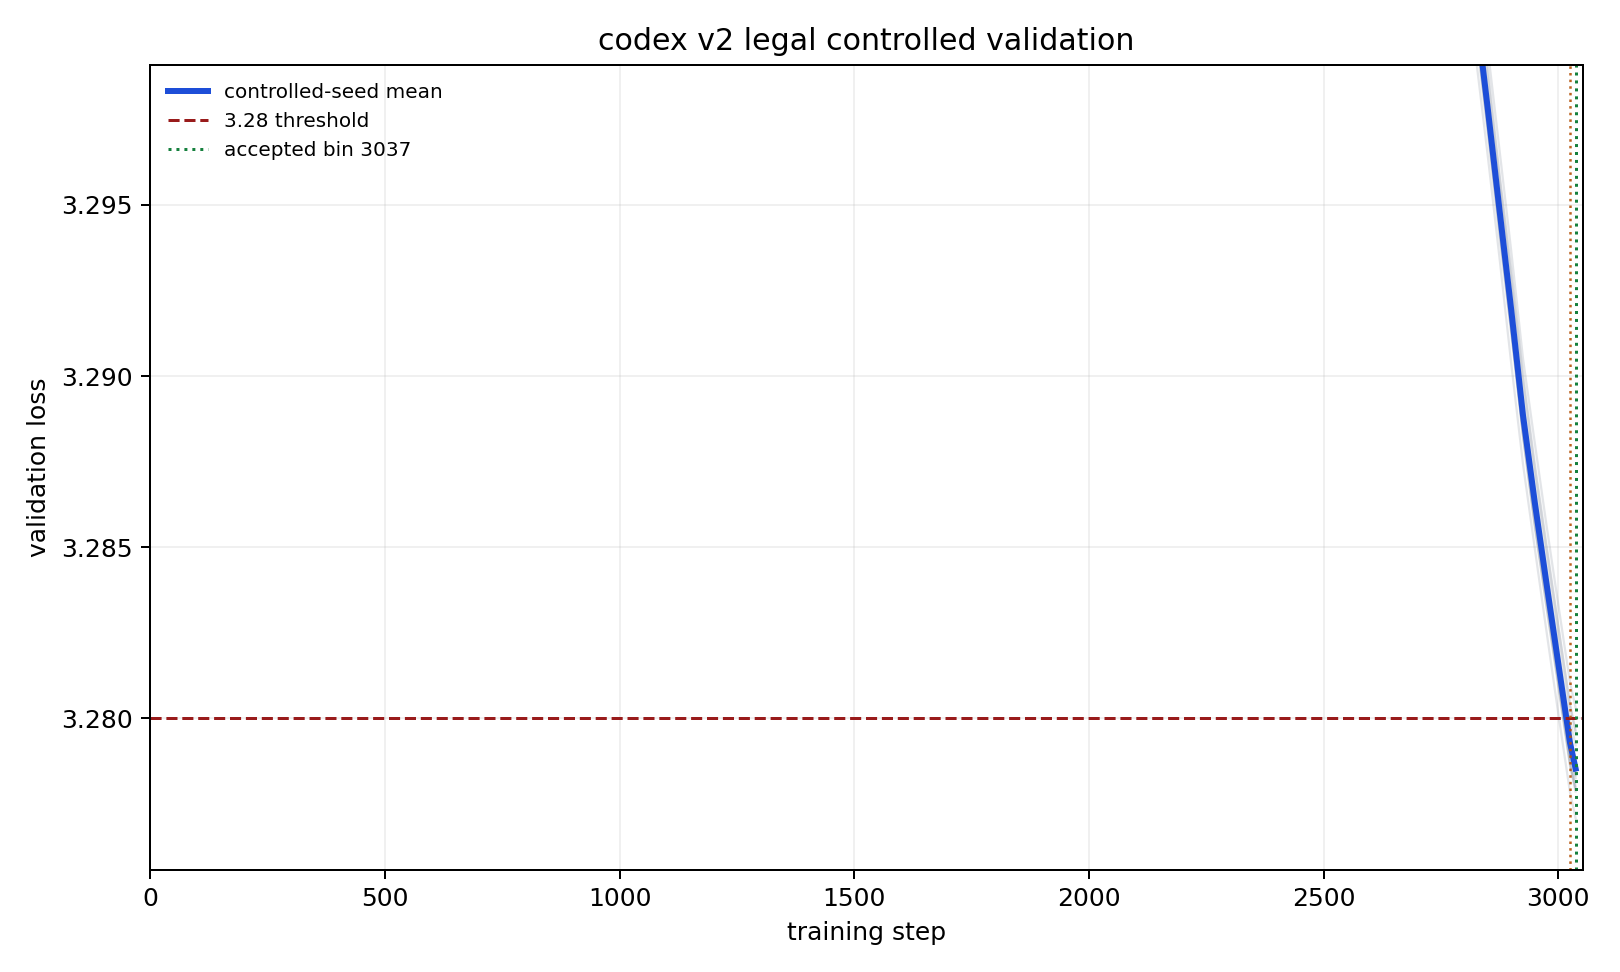
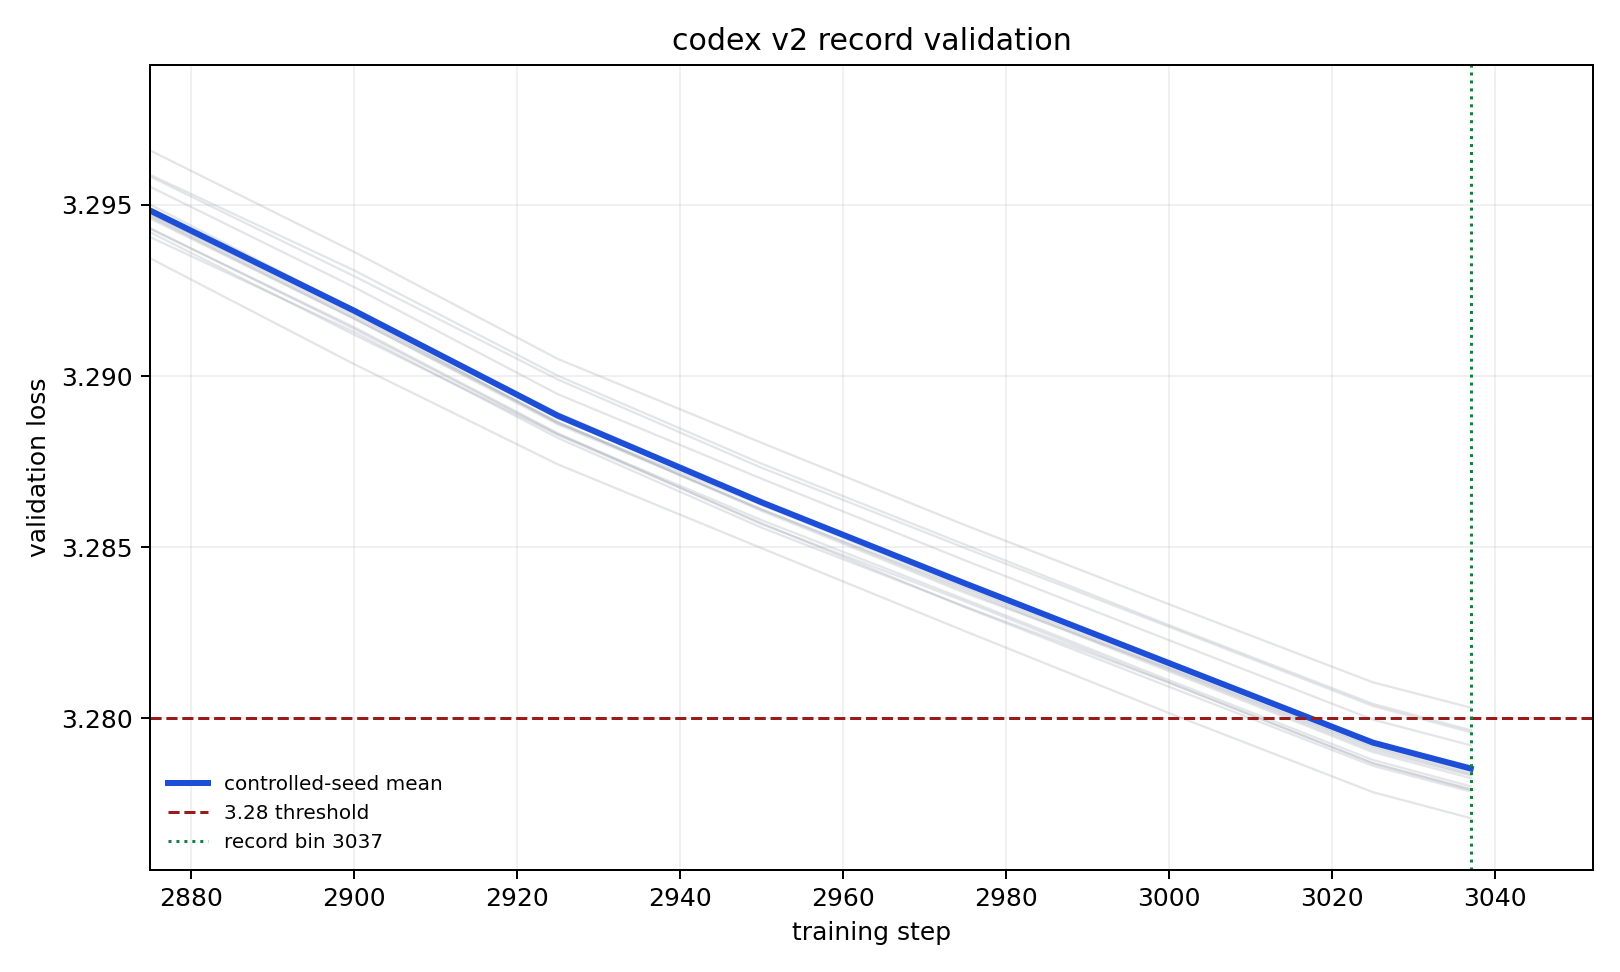
Simplify codex v2 record presentation

diff --git a/records/track_3_optimization/results/20260515_codex_v2_legal_3037/README.md b/records/track_3_optimization/results/20260515_codex_v2_legal_3037/README.md
@@ -10,22 +10,9 @@ This descends from the v12 optimizer stack but keeps the Track 3 architecture bl
 4. Muon lookahead from step 2450, interval 25, alpha 0.35, pull 0.15, with a 150-step smoothstep ramp.
 5. Embed init `* 0.7`, AdamW betas `(0.8, 0.95)`, `eta_min=0.02`, and the `0.85 -> 0.95 -> 0.85` Muon schedule.
 
-### Note on the bin
-
-The 3025 checkpoint is a real crossing but not a statistically significant Track 3 bin under the fixed rule:
-
-```text
-3025: n=16, mean=3.27928750, margin=[phone redacted]
-3037: n=16, mean=3.27853000, margin=[phone redacted]
-```
-
-The first controlled step that clears `(3.28 - mu) * sqrt(n) >= 0.004` is **3037**.
-
-Log hygiene note: the seed 2..7 raw full logs had appended extra trials from an early wrapper that still parsed the trailing seed value as `num_trials`. The committed logfiles are truncated at the first complete controlled stream per seed; those are the streams used in the table and statistic below.
-
 ## Result
 
-The submitted step count is **3037**. The result directory contains 16 full first-stream reproducibility logfiles for seeds 0 through 15.
+The submitted step count is **3037**. The result directory contains 16 full reproducibility logfiles for seeds 0 through 15.
 
 At step 3037:
 
@@ -38,27 +25,27 @@ std            = 0.00080602
 
 This exceeds the Track 3 README threshold of `0.004`. Equivalently, with `sigma=0.0013`, this is `z = 4.5231`, one-sided `p = 3.05e-06`, satisfying `p < 0.001`.
 
-| Seed | 3000 val | 3025 val | 3037 val |
-| -: | -: | -: | -: |
-| 0 | 3.28137 | 3.27901 | 3.27825 |
-| 1 | 3.28160 | 3.27926 | 3.27850 |
-| 2 | 3.28228 | 3.27996 | 3.27921 |
-| 3 | 3.28142 | 3.27907 | 3.27833 |
-| 4 | 3.28145 | 3.27913 | 3.27836 |
-| 5 | 3.28015 | 3.27784 | 3.27708 |
-| 6 | 3.28333 | 3.28105 | 3.28031 |
-| 7 | 3.28149 | 3.27918 | 3.27841 |
-| 8 | 3.28163 | 3.27931 | 3.27860 |
-| 9 | 3.28092 | 3.27861 | 3.27786 |
-| 10 | 3.28267 | 3.28036 | 3.27959 |
-| 11 | 3.28111 | 3.27878 | 3.27801 |
-| 12 | 3.28104 | 3.27868 | 3.27791 |
-| 13 | 3.28104 | 3.27869 | 3.27793 |
-| 14 | 3.28272 | 3.28042 | 3.27965 |
-| 15 | 3.28155 | 3.27925 | 3.27848 |
-| **Mean** | **3.28161** | **3.27929** | **3.27853** |
+| Seed | 3037 val |
+| -: | -: |
+| 0 | 3.27825 |
+| 1 | 3.27850 |
+| 2 | 3.27921 |
+| 3 | 3.27833 |
+| 4 | 3.27836 |
+| 5 | 3.27708 |
+| 6 | 3.28031 |
+| 7 | 3.27841 |
+| 8 | 3.27860 |
+| 9 | 3.27786 |
+| 10 | 3.27959 |
+| 11 | 3.27801 |
+| 12 | 3.27791 |
+| 13 | 3.27793 |
+| 14 | 3.27965 |
+| 15 | 3.27848 |
+| **Mean** | **3.27853** |
 
-## Comparison to earlier checkpoints
+## Loss Curve
 
 ![loss curves](loss_curves.png)
 
@@ -74,7 +61,7 @@ Per-component contributions are from the `pruning-rerun` codex v2 legal sweep at
 - `records/track_3_optimization/results/20260515_codex_v2_legal_3037/loss_curves.png`
 - `records/track_3_optimization/results/20260515_codex_v2_legal_3037/pruning.png`
 - `records/track_3_optimization/results/20260515_codex_v2_legal_3037/pruning_data.json`
-- 16 full first-stream reproducibility logfiles, seeds 0..15
+- 16 full reproducibility logfiles, seeds 0..15
 
 ## Credits
 